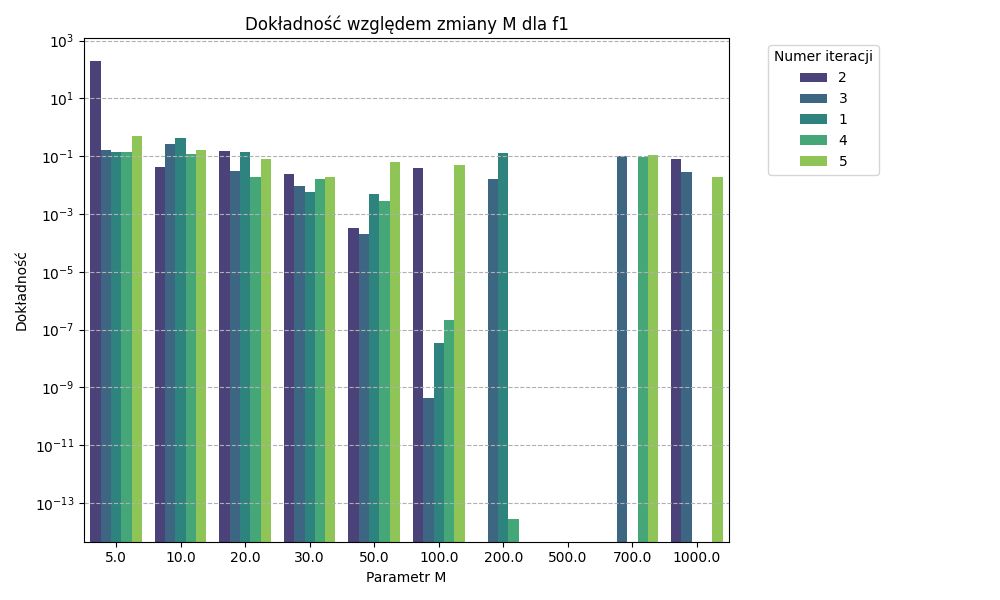
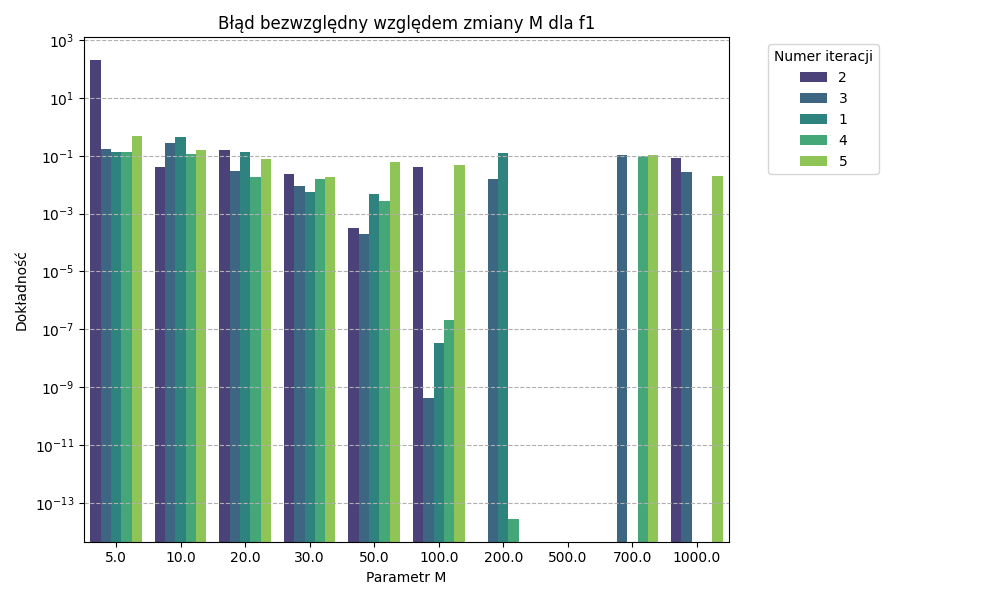
Poprawka tytulu wykresiku

Changed region(s): [[0.093, 0.03, 0.744, 0.09], [0.775, 0.27, 0.868, 0.3], [0.775, 0.06, 0.868, 0.09]]

diff --git a/Zad2 - Symulacja Wyżarzania/output_analyser.py b/Zad2 - Symulacja Wyżarzania/output_analyser.py
@@ -26,7 +26,7 @@ def wykres_dokladnosci(dane, parametr, f):
     plt.figure(figsize=(10, 6))
     plt.yscale('log')
     sns.barplot(x=parametr, y='dokladnosc', hue='nr_iteracji', data=dane, errorbar='sd', palette='viridis')
-    plt.title(f'Dokładność względem zmiany {parametr} dla {f}')
+    plt.title(f'Błąd bezwzględny względem zmiany {parametr} dla {f}')
     plt.xlabel(f'Parametr {parametr}')
     plt.ylabel('Dokładność')
     plt.grid(axis='y', linestyle='--')
